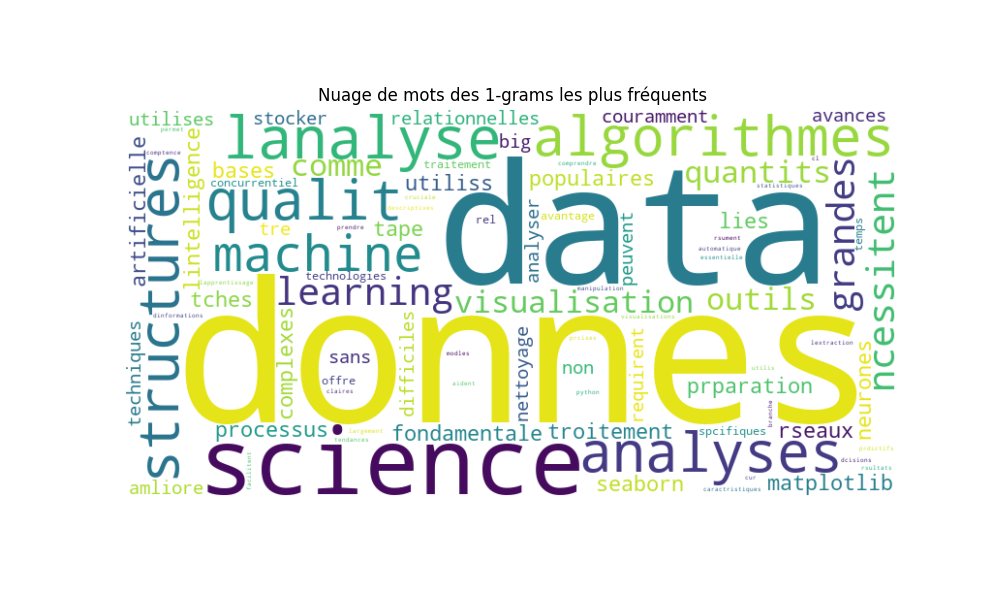
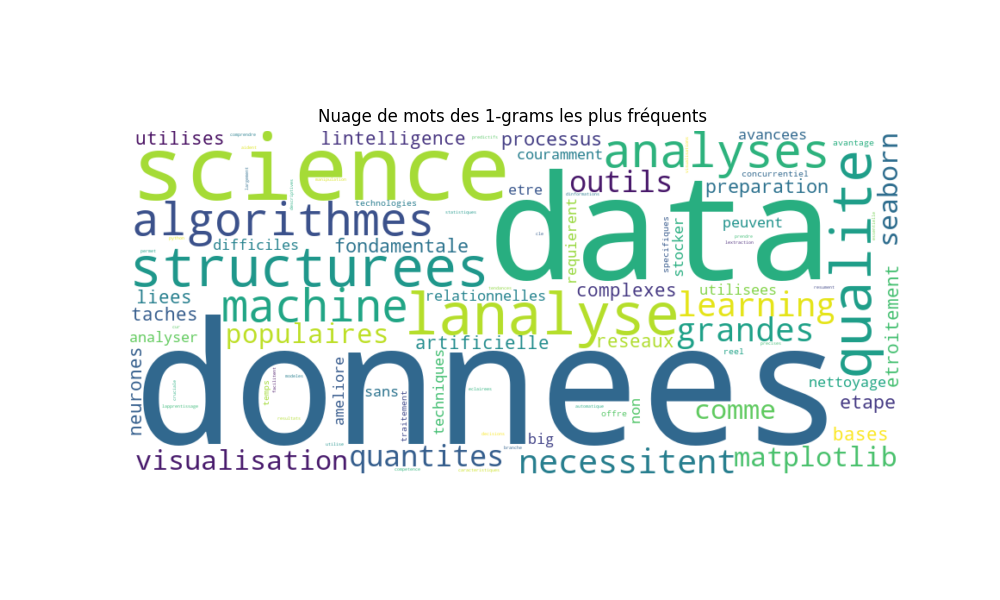
some changes in urls

Changed region(s): [[0.124, 0.15, 0.899, 0.84]]

diff --git a/main.py b/main.py
@@ -1,3 +1,13 @@
+"""
+Auteur : MEZRIGUI Chihab 👨💻
+Date : 03/06/2024 📅
+
+Ce Code utilise diverses bibliothèques pour créer des fonctions en Python permettant 
+d'interagir avec l'API Google Sheets via Google Cloud Platform, ainsi qu'à effectuer 
+une analyse n-gram sur les données collectées.
+
+"""
+
 import re
 from google.oauth2.service_account import Credentials
 import gspread
@@ -10,7 +20,10 @@ import matplotlib.pyplot as plt
 from wordcloud import WordCloud
 
 
-#--------------------------------  Fonction 1 : Connection à l’API Google Sheets  --------------------------------------
+""" 
+   Fonction 1 : Connection à l’API Google Sheets 
+
+"""
 
 # Accès au service Google Sheet API
 def connexion_to_googlesheets(json_keyfile):
@@ -20,7 +33,6 @@ def connexion_to_googlesheets(json_keyfile):
         
         credentials = Credentials.from_service_account_file(json_keyfile, scopes=SCOPES)
         user = gspread.authorize(credentials)
-        
         print("Connection à l'API Google Sheets réussie.")
         return user
     except Exception as e:
@@ -28,8 +40,10 @@ def connexion_to_googlesheets(json_keyfile):
         return None
 
 
-#-------------------------------- Fonction 2 : Analyse n-gram --------------------------------
 
+""" 
+   Fonction 2 : Analyse n-gram 
+"""
 
 # Fonction pour nettoyer et prétraiter les données textuelles
 def clean_text(text):
@@ -59,6 +73,7 @@ def clean_text(text):
 
 # Générer les n-grams
 def generate_ngrams(text, n):
+    # On fait un appel pour la fonction clean_text
     words = clean_text(text)
     n_grams = ngrams(words, n)
     return [' '.join(grams) for grams in n_grams]
@@ -74,9 +89,8 @@ def analyze_ngrams(texts, n):
 
 
 
-
 # Charger les données textuelles depuis le fichier CSV
-csv_file_path = r'D:\work\ESKIMOZ\data\data_science_phrases.csv'
+csv_file_path = r'data\data_science_phrases.csv'
 df = pd.read_csv(csv_file_path)
 
 # On prend la colonne 'texte' qui contient les données textuelles .
@@ -97,14 +111,17 @@ for n in range(1, max_length + 1):
 # Sauvegarder les résultats dans des fichiers CSV
 for n, ngrams in ngrams_results.items():
     ngrams_df = pd.DataFrame(ngrams, columns=[f'{n}-gram', 'frequency'])
-    ngrams_df.to_csv(f'D:/work/ESKIMOZ_PROJECT/data/{n}grams_frequency.csv', index=False)
+    ngrams_df.to_csv(f'data/{n}grams_frequency.csv', index=False)
 
-print(f"Les résultats ont été sauvegardés dans des fichiers CSV nommés '{n}grams_frequency.csv' pour n allant de 1 à {max_length}.")
+print("Les résultats ont été sauvegardés dans des fichiers CSV")
 
 
 
-# VISUALISATION DES DONNEES 
 
+""" 
+  Un + 😊 =>  Partie : VISUALISATION DES DONNEES 
+
+"""
 
 # Fonction pour la visualisation des données de n_grams et leurs fréquence sous forme d'un nuage de mots
 
@@ -122,12 +139,10 @@ def vis_nuage_mots(ngrams_results, n):
     plt.title(f'Nuage de mots des {n}-grams les plus fréquents')
     plt.show()
 
-
-
 # On applique cette fonction pour visualiser le nuage des mots de 1gram les plus fréquents
+# J'ai choisi des séquences d'un seul mot (1gram)
 n=1
 vis_nuage_mots(ngrams_results, 1)
-
 
 # Fonction pour la visualisation des données de n_grams et leurs fréquence sous forme des barres horizontales .
 def plot_ngrams(ngrams_results, n):
@@ -139,16 +154,20 @@ def plot_ngrams(ngrams_results, n):
     plt.title(f'{n}-grams les plus fréquents')
     plt.gca().invert_yaxis()
     plt.show()
-
-
-# On applique cette fonction pour visualiser les 5grams les plus fréquents
+    
+# On applique cette fonction pour visualiser les 5grams les plus fréquents 
+# j'ai choisi séquence contient 8 mots 
 n=8
 plot_ngrams(ngrams_results, 8)
 
 
 
 
-# -------------------------- Fonction 3 : Remplir un Google Sheets à partir d'un DataFrame  -----------------------------------
+
+""" 
+   Fonction 3  : Remplir un Google Sheets à partir d'un DataFrame
+
+"""
 
 # Fonction pour mettre à jour Google Sheets avec un DataFrame
 def update_google_sheet(user, spreadsheet_id, sheet_name, dataframe):
@@ -164,20 +183,20 @@ def update_google_sheet(user, spreadsheet_id, sheet_name, dataframe):
         # Mettre à jour les données dans Google Sheets à partir du col A1
         worksheet.update('A1', values)
         
-        print("Update de Google Sheets réussie.")
+        print("Mettre à jour de Google Sheets réussie.")
     except Exception as e:
-        print(f"Erreur lors de l'update': {e}")
+        print(f"Erreur lors de mis à jour: {e}")
 
 
 
 
-json_url = r'D:\work\ESKIMOZ\eskimoz-etude-cas-46017-d740eda083ad.json' 
+json_url = r'data\config\eskimoz-etude-cas-46017-d740eda083ad.json' 
 # Connexion à l'API Google Sheets
 user = connexion_to_googlesheets(json_url)
 
-# Chargement du DataFrame à partir d'un fichier CSV
-data_science_phrases_path = r'D:\work\ESKIMOZ\data\7grams_frequency.csv'
-df = pd.read_csv(data_science_phrases_path)
+# Chargement du DataFrame à partir d'un fichier CSV : data_science_phrases( un exemple )
+csv_path = r'data\data_science_phrases.csv'
+df = pd.read_csv(csv_path)
 print("DataFrame chargé avec succès.")
 print(df.head(10))
 
